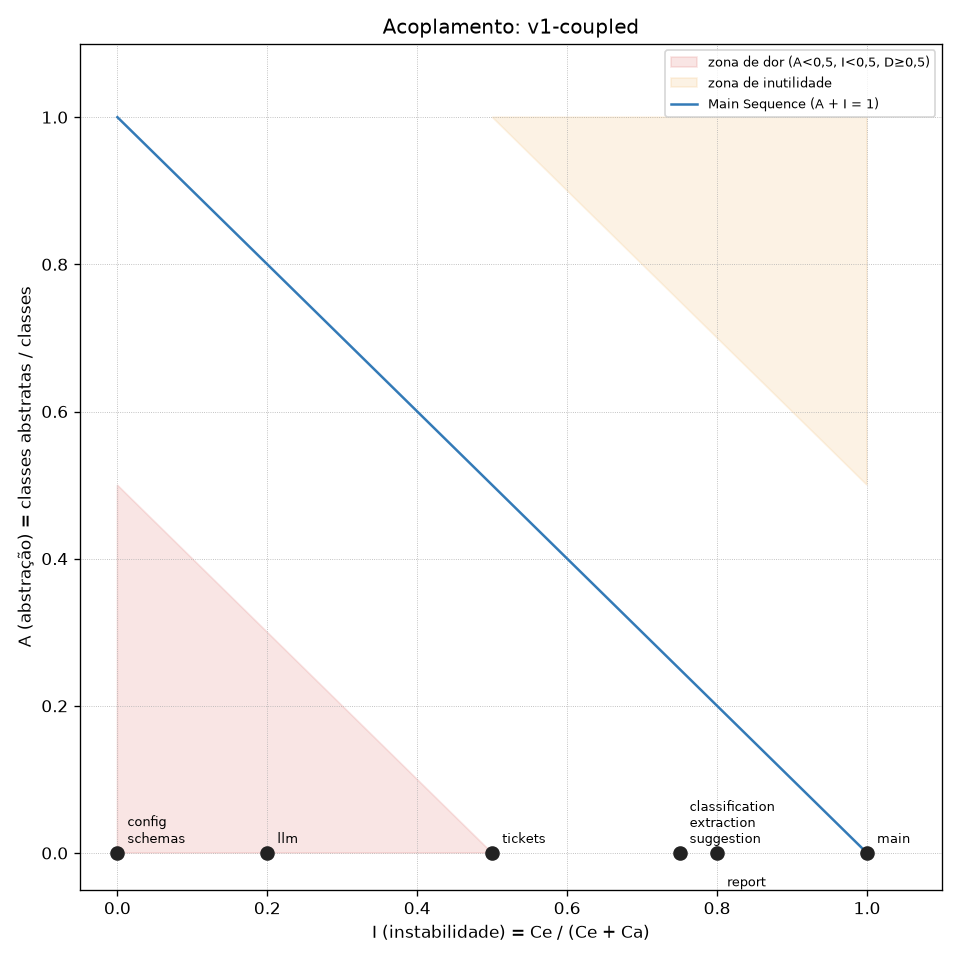
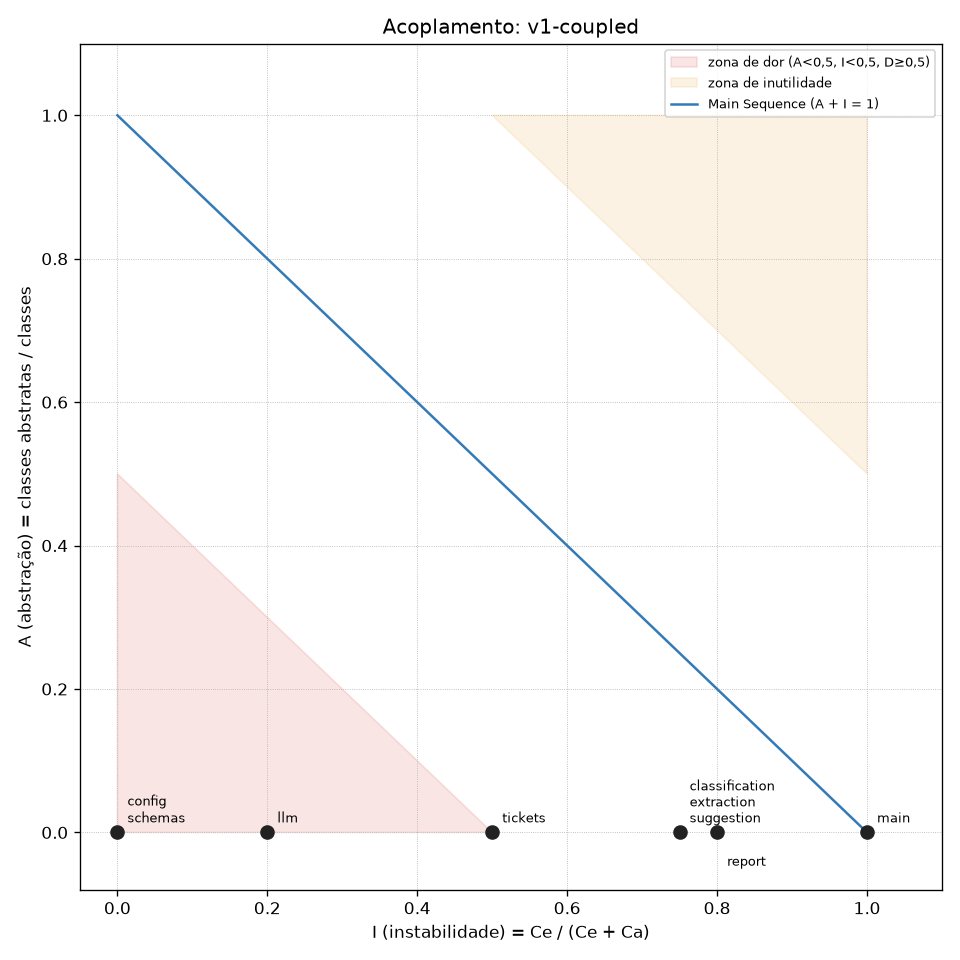
feat(metrics): resultado v2-decoupled e espaço para rótulos abaixo do eixo
CSV da v1 inalterado; só os gráficos foram regenerados. v2: config e llm removidos; ports em A 1/D 0; só schemas na zona de dor.

diff --git a/metrics/coupling.py b/metrics/coupling.py
@@ -174,6 +174,7 @@ def plot(metrics: list[Metrics], path: Path, title: str) -> None:
         groups.setdefault((float(fmt(m.i)), float(fmt(m.a))), []).append(m.component)
     previous: tuple[float, float] | None = None
     below = False
+    lowest = 0.0
     for (i, a), names in sorted(groups.items(), key=lambda item: (item[0][1], item[0][0])):
         ax.scatter(i, a, s=60, color="#222222", zorder=3)
         # Pontos vizinhos na mesma altura alternam o rótulo entre acima e abaixo para não sobrepor.
@@ -183,9 +184,10 @@ def plot(metrics: list[Metrics], path: Path, title: str) -> None:
         offset = (6, -10 - 10 * len(names)) if below else (6, 6)
         ax.annotate(label, (i, a), textcoords="offset points", xytext=offset, fontsize=8)
         previous = (i, a)
+        lowest = min(lowest, a - 0.04 * len(names) - 0.04) if below else lowest
 
     ax.set_xlim(-0.05, 1.1)
-    ax.set_ylim(-0.05, 1.1)
+    ax.set_ylim(min(-0.05, lowest), 1.1)
     ax.set_xlabel("I (instabilidade) = Ce / (Ce + Ca)")
     ax.set_ylabel("A (abstração) = classes abstratas / classes")
     ax.set_title(f"Acoplamento: {title}")
